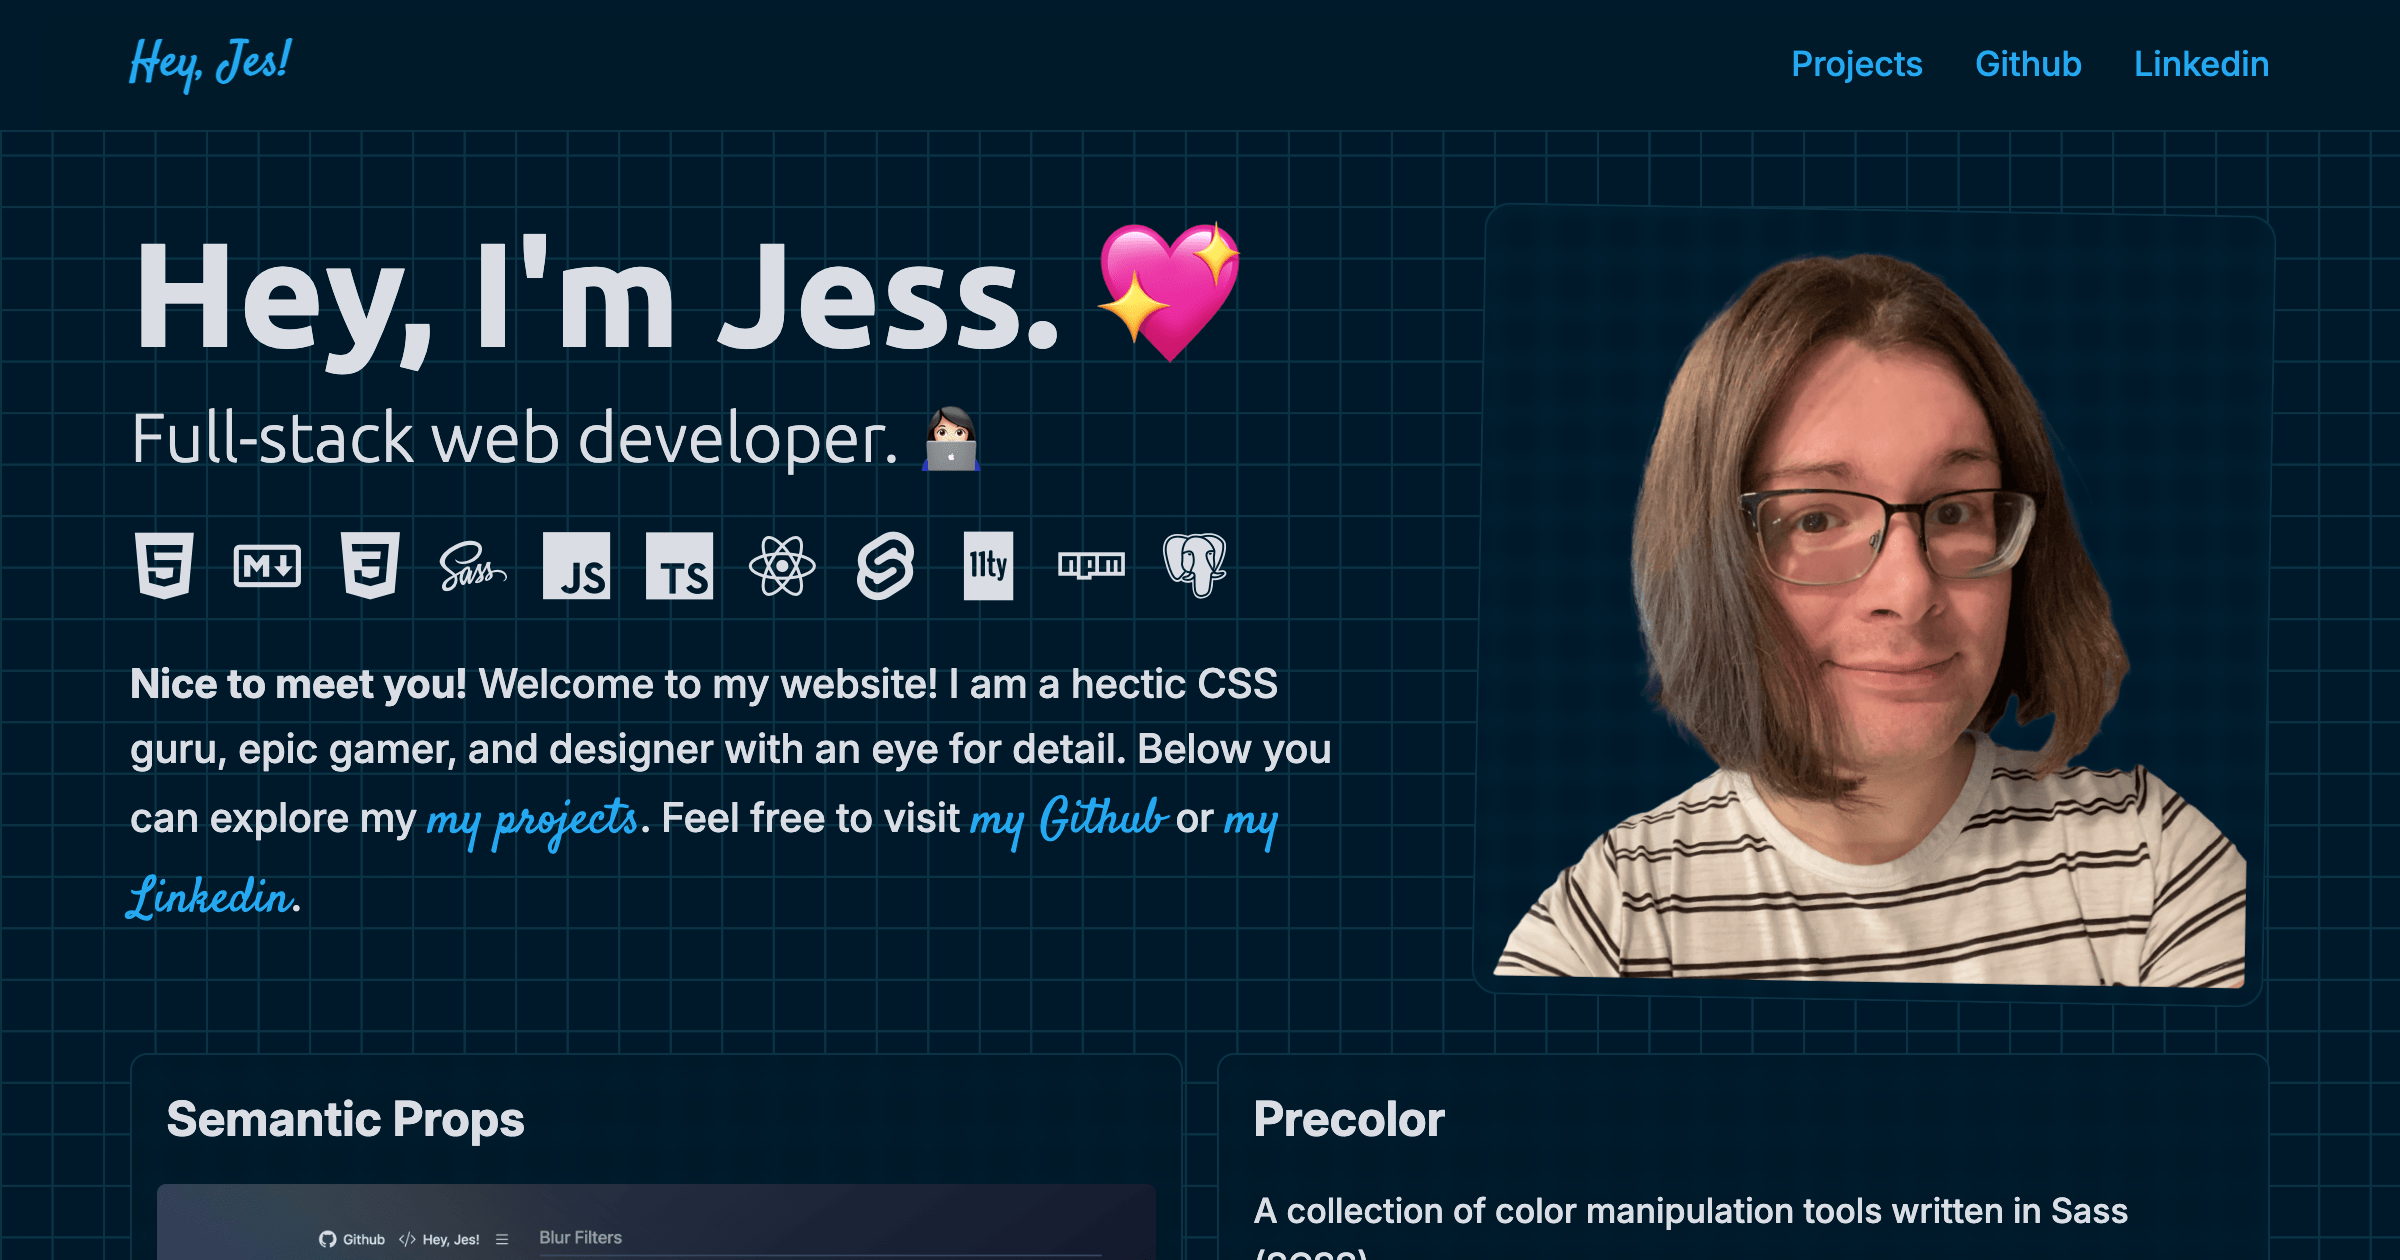
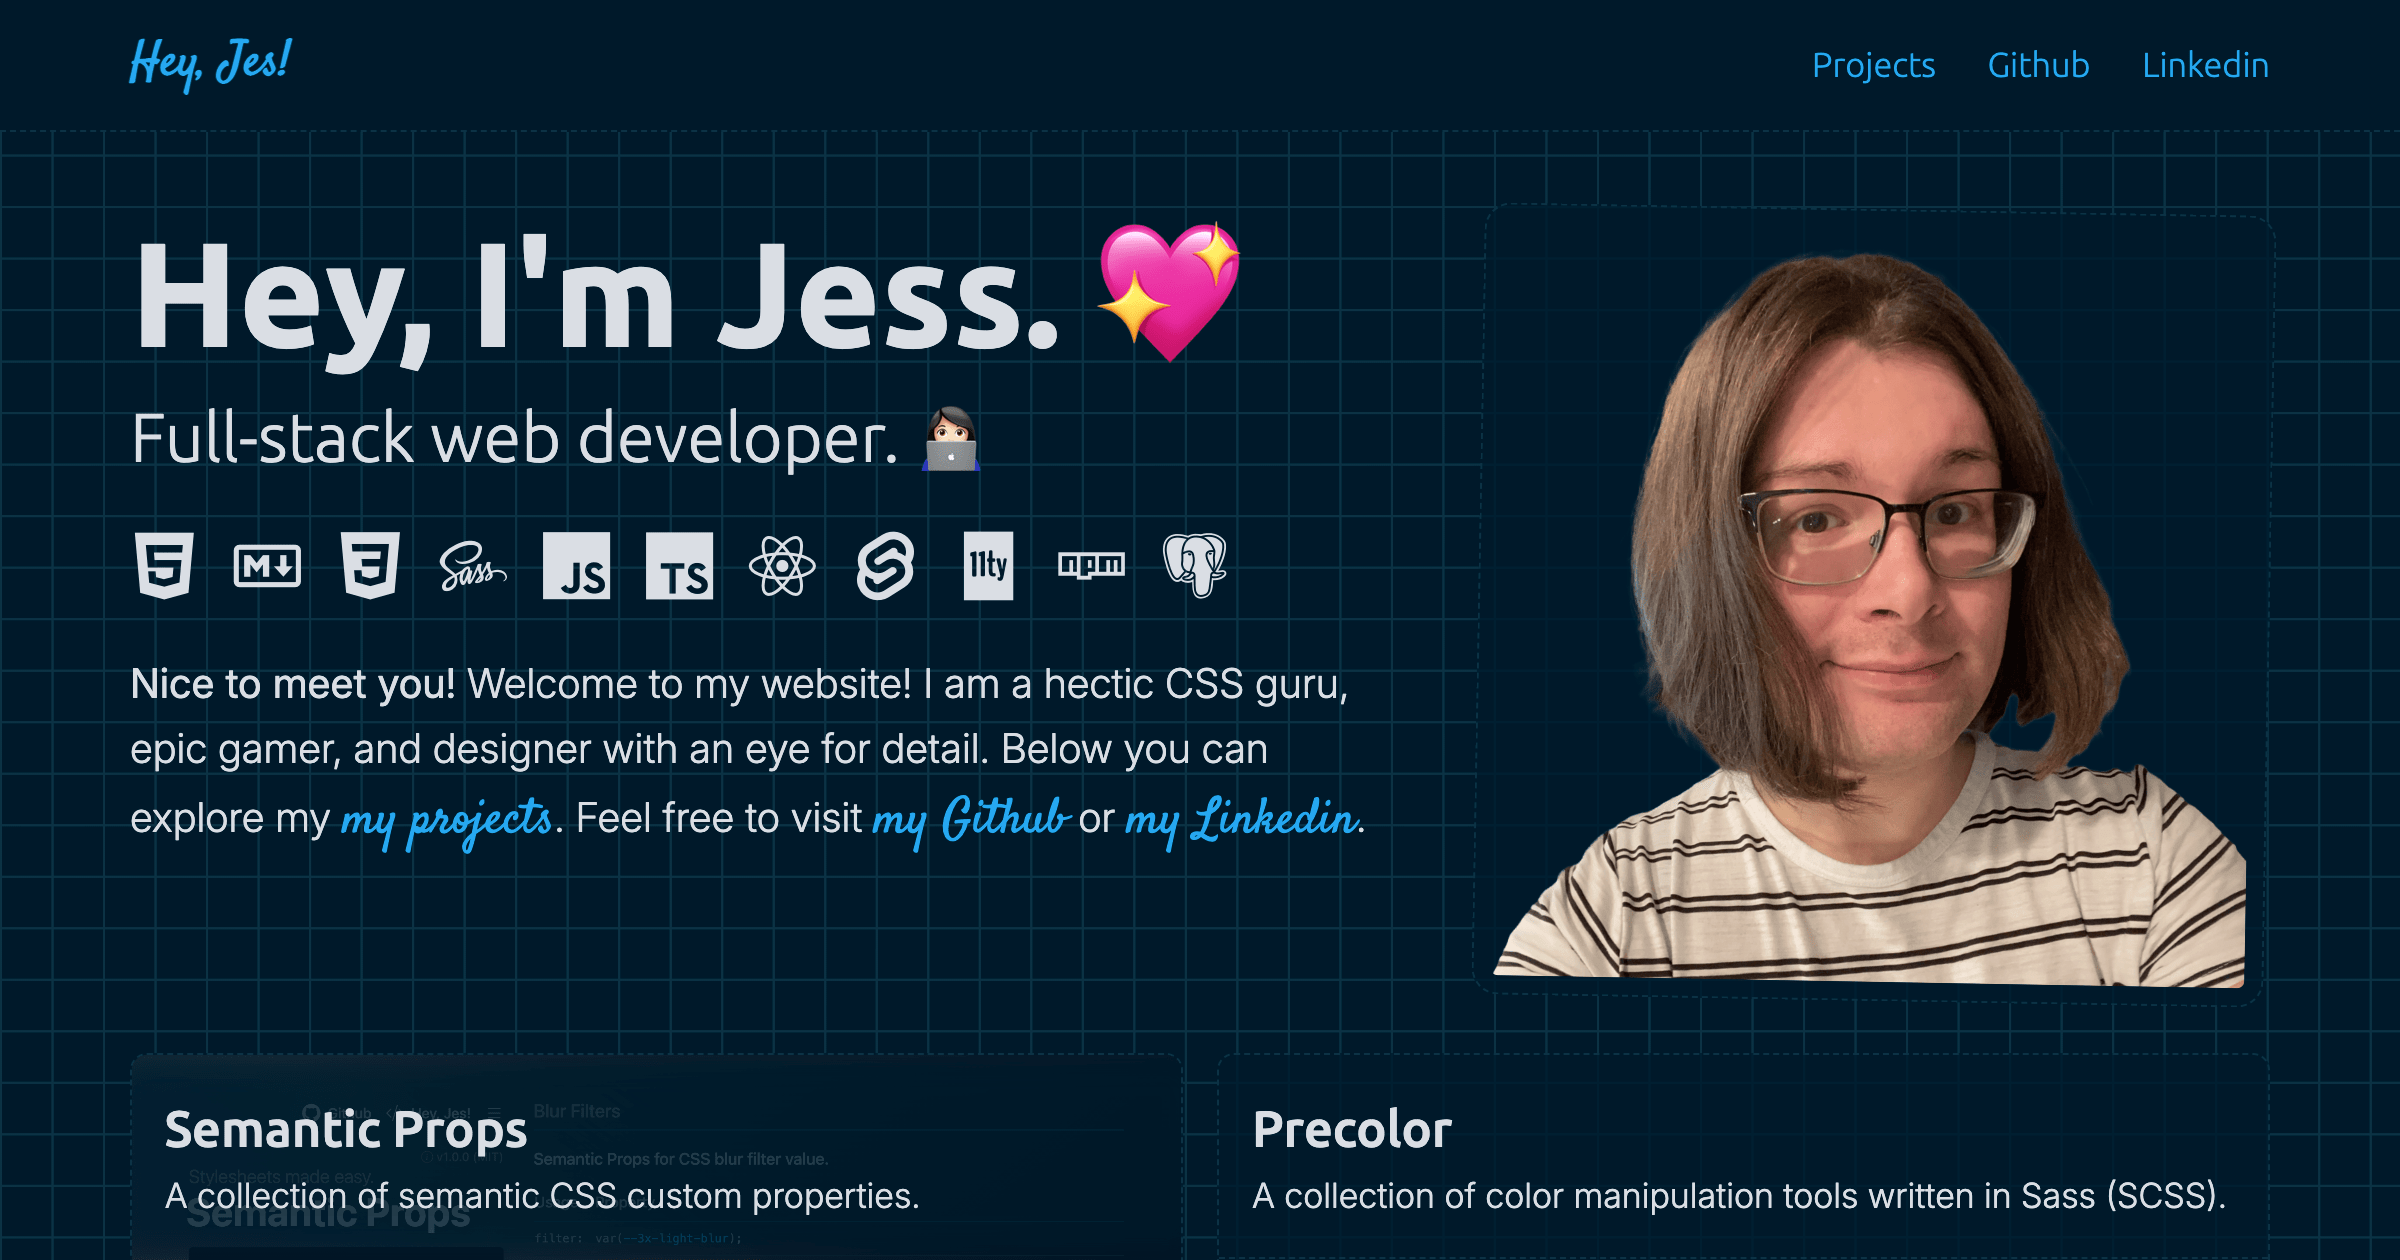
Tweaked website design elements.

diff --git a/src/components/Projects.module.css b/src/components/Projects.module.css
@@ -7,6 +7,7 @@
 	column-gap: var(--small-size);
 	column-fill: balance;
 	clear: both;
+	margin-block: var(--medium-size);
 }
 
 .item {
@@ -19,70 +20,70 @@
 }
 
 .project {
+	position: relative;
 	display: flex;
 	flex-flow: column nowrap;
-	justify-content: start;
-	background-color: var(--primary-50-800);
-	background-color: oklch(from var(--primary-50-800) l c h / var(--medium-opacity));
-	backdrop-filter: var(--x-light-blur);
+	justify-content: end;
+	container-type: inline-size;
 	border-radius: var(--2x-small-size);
 	border: 1px var(--border-style) var(--primary-200-700);
-	padding: var(--small-size);
-	gap: var(--small-size) 0;
-	@media (prefers-reduced-transparency) {
-		background-color: var(--primary-50-800);
+	background-color: var(--primary-50-800);
+	color: var(--secondary-800-100);
+	overflow: hidden;
+	&:has(.portal) {
+		color-scheme: dark;
+		aspect-ratio: 3 / 2;
 	}
-}
-
-.title, .portal, .description, .link {
-	display: block;
-	margin-block: 0;
-}
-
-.title {
-	font-size: var(--x-large-font);
-	font-weight: var(--bold-font);
-	line-height: var(--line-short);
+	& > :not(.portal) {
+		padding: var(--small-size);
+	}
+	@media not (prefers-reduced-transparency) {
+		background-color: oklch(from var(--primary-50-800) l c h / var(--x-high-opacity));
+	}
 }
 
 .portal {
-	position: relative;
-	z-index: var(--z-relative);
-	border-radius: var(--3x-small-size);
-	aspect-ratio: 3 / 2;
-	margin-block: 0;
-	margin-inline: calc(var(--3x-small-size) * -1);
-	transition: all var(--fast-time) var(--ease-in-out);
-	overflow: hidden;
-	filter: var(--heavy-shadow);
-	&:hover, &:focus,
-	.project:has(a[href]:is(:hover, :focus)) & {
-		background-color: inherit;
-		scale: var(--scale-in);
-		rotate: 1deg;
-	}
-	&:active,
-	.project:has(a[href]:active) & {
-		transition-duration: var(--x-fast-time);
-		scale: 1;
-		rotate: 0deg;
-	}
+	position: absolute;
+	z-index: 0;
+	inset: 0;
 	img {
 		display: block;
 		width: 100%;
 		height: 100%;
 		object-fit: cover;
 		object-position: top center;
+		filter: var(--low-brightness);
 	}
 }
 
-.description {
-	margin-block-start: auto;
+.project:has(.portal) :is(.header, .link) {
+	position: relative;
+	z-index: 1;
+	&::before {
+		content: "";
+		position: absolute;
+		z-index: -1;
+		inset: 0;
+		background-color: var(--primary-50-800);
+		opacity: var(--x-high-opacity);
+		filter: var(--medium-blur);
+		scale: var(--scale-in);
+	}
+}
+
+.title, .description, .link {
+	display: block;
+	margin: 0;
+}
+
+.title {
+	font-family: var(--display-font);
+	font-size: var(--3x-large-font);
+	font-weight: var(--regular-font);
 }
 
 .link {
 	text-align: right;
 	border-block-start: inherit;
-	padding-block-start: inherit;
-	padding-inline-end: var(--3x-small-size);
+	margin-block-start: auto;
 }

diff --git a/src/components/Projects.tsx b/src/components/Projects.tsx
@@ -15,20 +15,22 @@ export default function Projects() {
 	return (
 		<div className={styles.grid}>
 			{projects.map(({ title, image, description, url }: projects) => (
-			<div className={styles.item}>
+				<div className={styles.item}>
 					<article className={styles.project}>
-						<h2 className={styles.title}>{title}</h2>
+						<header className={styles.header}>
+							<h2 className={styles.title}>{title}</h2>
+							<p className={styles.description}>{description}</p>
+						</header>
 						{typeof image === "string" && (
 							<a className={styles.portal} href={url}>
 								<img src={image} loading="lazy" alt="" />
 							</a>
 						)}
-						<p className={styles.description}>{description}</p>
 						<span className={styles.link}>
 							<Link to={url} content="Learn More" />
 						</span>
 					</article>
-			</div>
+				</div>
 			))}
 		</div>
 	);

diff --git a/src/components/Header.module.css b/src/components/Header.module.css
@@ -7,12 +7,11 @@
 	display: flex;
 	flex-flow: row nowrap;
 	background-color: var(--primary-50-800);
-	background-color: oklch(from var(--primary-50-800) l c h / var(--medium-opacity));
-	backdrop-filter: var(--heavy-blur);
 	border-bottom: 1px var(--border-style) var(--primary-200-700);
 	overflow: auto;
-	@media (prefers-reduced-transparency) {
-		background-color: var(--primary-50-800);
+	@media not (prefers-reduced-transparency) {
+		background-color: oklch(from var(--primary-50-800) l c h / var(--3x-high-opacity));
+		backdrop-filter: var(--heavy-blur) var(--low-saturation);
 	}
 }
 
@@ -41,5 +40,6 @@
 	display: flex;
 	flex-flow: row nowrap;
 	gap: inherit;
-	margin-left: auto;
+	font-family: var(--display-font);
+	margin-inline-start: auto;
 }

diff --git a/src/index.css b/src/index.css
@@ -3,12 +3,13 @@
 @import url('https://fonts.googleapis.com/css2?family=Inter:ital,opsz,wght@0,14..32,100..900;1,14..32,100..900&family=Satisfy&family=Ubuntu+Mono:ital,wght@0,400;0,700;1,400;1,700&family=Ubuntu:ital,wght@0,300;0,400;0,500;0,700;1,300;1,400;1,500;1,700&display=swap');
 
 .semantic {
-	scroll-behavior: smooth;
 	--primary-color: var(--gray);
 	--body-font: "Inter", sans-serif;
 	--mono-font: "Ubuntu Mono", monospace;
 	--display-font: "Ubuntu", sans-serif;
 	--accent-font: "Satisfy", cursive;
+	--border-style: dashed;
+	scroll-behavior: smooth;
 	background-color: var(--primary-50-800);
 	@supports (color: light-dark(white, black)) {
 		--primary-color: light-dark(var(--gray), #1c4154);

diff --git a/src/pages/Homepage.module.css b/src/pages/Homepage.module.css
@@ -2,12 +2,13 @@
 
 .container, .intro {
 	display: block;
+	margin-block: var(--large-size) var(--medium-size);
 }
 
 .profile {
 	display: block;
 	width: min(33cqi, var(--small-container));
-	backdrop-filter: var(--x-light-blur);
+	background-color: var(--primary-50-800);
 	border-radius: var(--x-small-size);
 	border: 1px var(--border-style) var(--primary-200-700);
 	padding: var(--2x-small-size);
@@ -18,6 +19,9 @@
 	overflow: hidden;
 	float: right;
 	transform: rotate(1deg);
+	@media not (prefers-reduced-transparency) {
+		background-color: oklch(from var(--primary-50-800) l c h / var(--x-high-opacity));
+	}
 }
 
 .title, .subtitle {

diff --git a/src/App.module.css b/src/App.module.css
@@ -8,7 +8,7 @@
 	min-height: min(100vb, 100dvb);
 	font-family: var(--body-font);
 	font-size: var(--medium-font);
-	font-weight: var(--regular-font);
+	font-weight: var(--light-font);
 	line-height: var(--line-normal);
 	letter-spacing: var(--letter-normal);
 	word-spacing: var(--word-normal);
@@ -28,7 +28,6 @@
 	width: min(100%, var(--3x-large-container));
 	padding-inline-start: max(var(--responsive-size), var(--safe-left) + var(--medium-size));
 	padding-inline-end: max(var(--responsive-size), var(--safe-right) + var(--medium-size));
-	margin-block: var(--large-size);
 	margin-inline: auto;
 	flex: 1 0 auto;
 }
